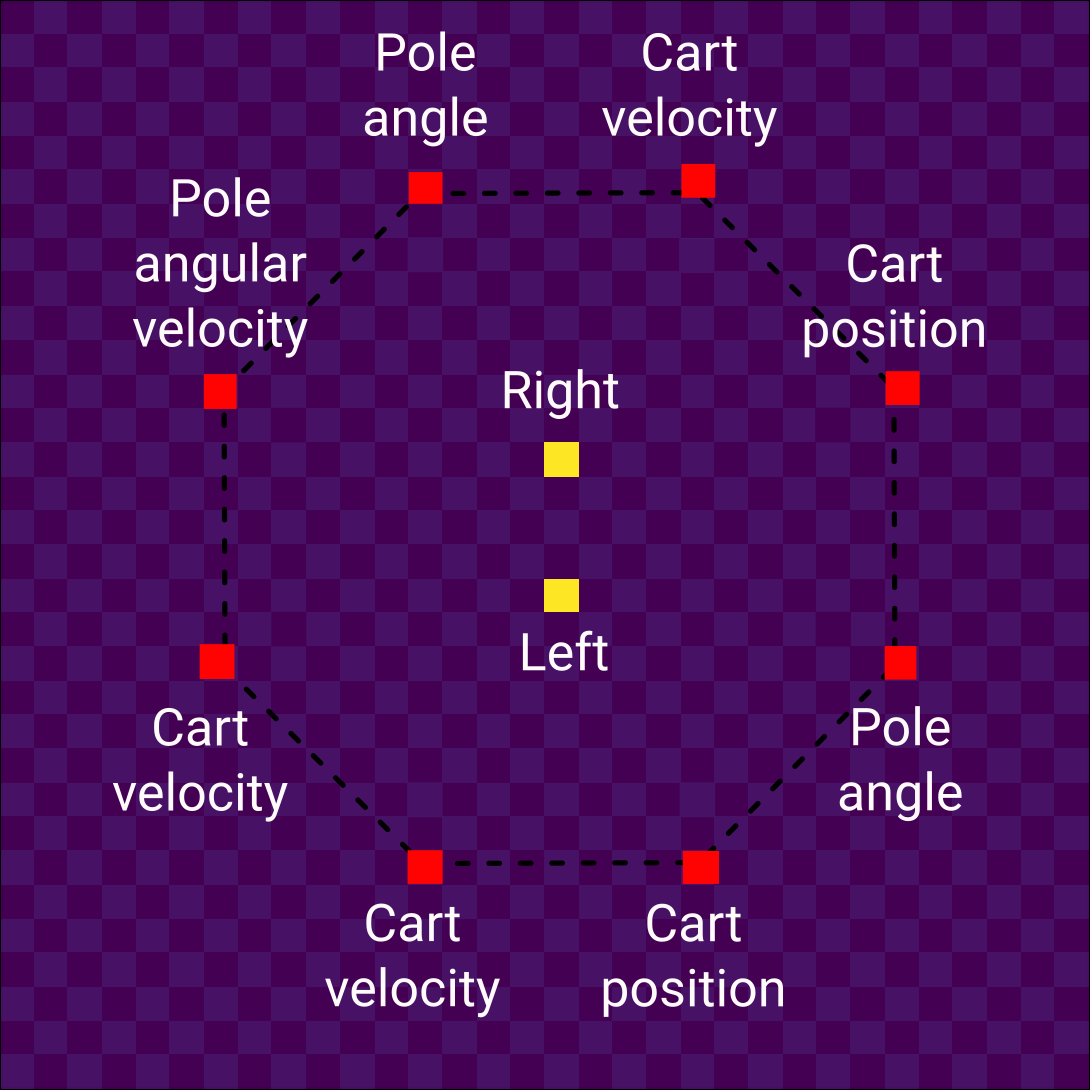
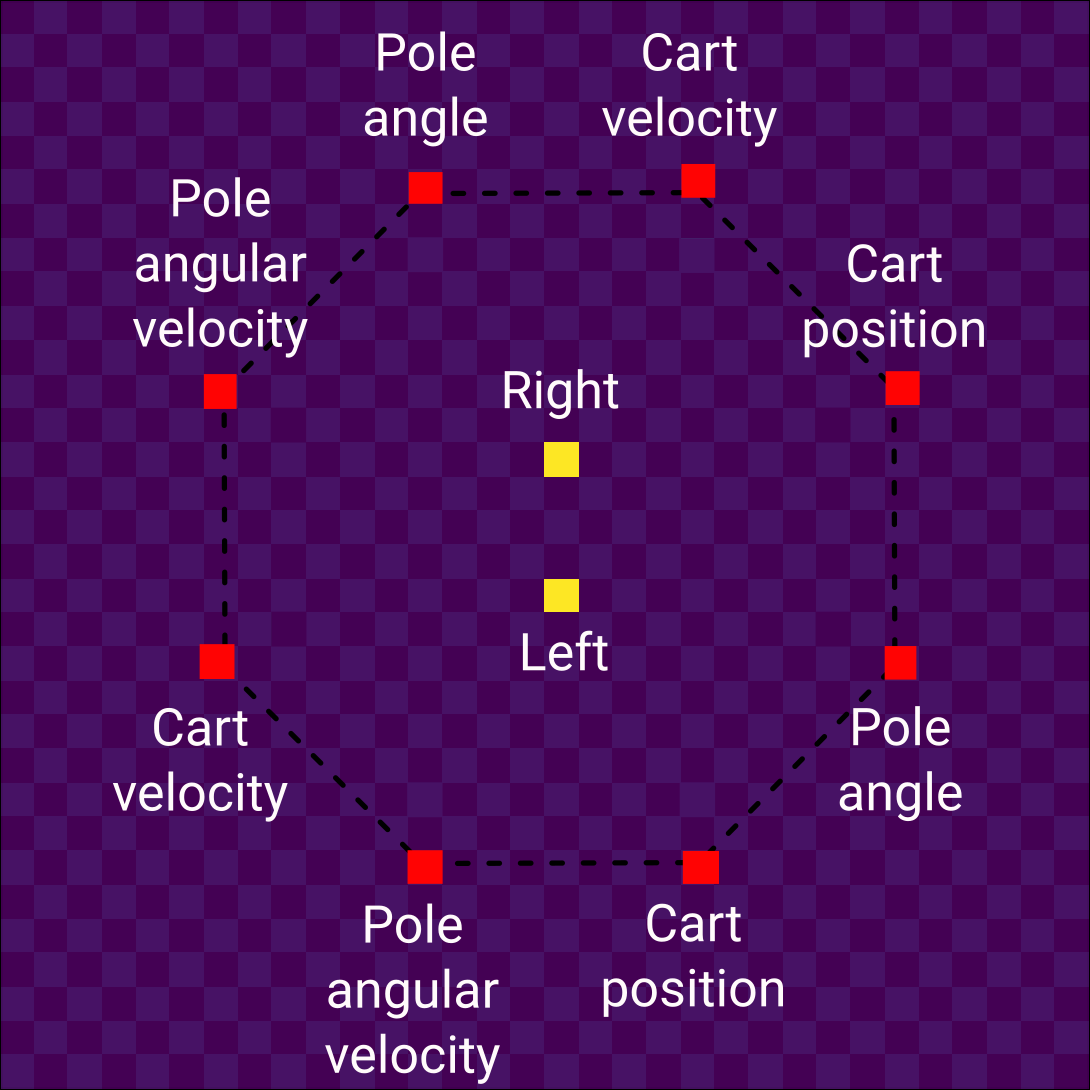
Corrected io position, added reward function

Changed region(s): [[0.2807, 0.811, 0.4679, 0.9982]]

diff --git a/index.html b/index.html
@@ -21,7 +21,7 @@
   <div class="column column-60 column-offset-20">
 
 
-	<h1> Towards self organized control </h1>
+	<h1> Towards self-organized control </h1>
 	<h3 class="nobold"> Using neural cellular automata to robustly control a cart-pole agent</h3>
 	<h4 class="nobold"> Alexandre Variengien <sup>1,2,3</sup>, Stefano Nichele<sup>1,2,*</sup>, Tom Glover<sup>1</sup>, Sidney Pontes-Filho<sup>1,4</sup></h4>
 	<small class="nobold"><sup><small>1</small></sup> Department of Computer Science, Oslo Metropolitan University, Oslo (Norway)  <br>
@@ -69,7 +69,7 @@
 		</p>
 		<p>
 			The neural plasticity can be considered as a part of the whole biological mechanism governing homeostasis of both 
-			shape and function. This conceptual proximity is also justified by biological evidence such as the recent discovery 
+			shape and function. This conceptual proximity is also justified by biological evidence such as the discovery 
 			of the role of electrical activity during morphogenesis. In particular, the same ion channels are used both for local 
 			communication between non-neuronal cells during embryogenesis and in the neurons to carry action potentials 			
 			<a class="ref" href="https://onlinelibrary.wiley.com/doi/epdf/10.1002/bem.10104" >[3]<span>Bioelectromagnetics in morphogenesis, Michael Levin</span></a>.
@@ -118,7 +118,7 @@
 			as a developmental problem. 
 		</p>
 		<p>
-			The developmental problem has also been addressed as an independent task. The goal here is to model the phenomena of morphogenesis observed in living organisms.
+			The developmental problem has also been addressed as an independent task. In this case, the goal is to model the phenomena of morphogenesis observed in living organisms.
 			Successful approaches used cellular automata along with artificial neural networks implementing local rules. They were able to produce complex
 			patterns from localized interactions. 
 					<a class="ref" href="https://core.ac.uk/download/pdf/147570059.pdf" >[18] 
@@ -154,11 +154,11 @@
 		</p>
 		
 	<h2> The pole balancing task </h2>
-		
+
 		<p>
 			The cart-pole problem is a commonly used toy problem in the reinforcement learning community. In this
 			environment, an agent controls a cart-pole system. It can observe the pole angle and angular velocity, 
-			the cart position, and its linear velocity.
+			the cart position, and its linear velocity. 
 			Based on these observations, it must decide whether to apply a force on the left or the right of the cart in order
 			to maximize the time spent with the pole up.
 			
@@ -170,8 +170,15 @@
 			</div>
 			<div class="caption">The cart-pole environment. The top arrow represents the angular velocity of the pole,
 								the bottom arrow, the velocity of the cart.
-				</div>
-			
+			</div>
+			We used the implementation of this environment provided by the <a href="https://gym.openai.com/">OpenAI gym library</a>.
+			We used a custom reward function to favor agents that stay on the center of the track.
+			<div>
+			<img src = "img/reward.png" width="150" class="center" >
+			</div>
+			<div class="caption">The reward given at time step t. x is the position of the cart, L the length of the pole. On the center (x=0), the
+								agent receives the maximum reward of 1, while if it is on the edges of the track (x= &pm; L), the agent receives 0, the minimum reward. 
+			</div>
 		</p>
 
 	<h2> Cell state </h2>
@@ -181,7 +188,7 @@
 		<p>
 			The state of each cell is composed of 6 channels. The first is the <i> information channel</i> where meaningful
 			input and output information transit. The third is identifying the inputs: it is equal to 1 in the input cells, 0 elsewhere.
-			The fourth is similar for the outputs. The remaining three are hidden channels.
+			The fourth similarly identifies the outputs. The remaining three are hidden channels.
 		</p>
 		<p>
 			The state of the input cell cannot be changed, the information channel transmit the observation from the environment
@@ -201,7 +208,7 @@
 
 		<h4> Input encoding </h4>
 			<p>
-				For this task, we use redundancy in the inputs: each of the 4 physical observations of the environment is linked to 2 input cells.
+				We use redundancy in the inputs: each of the 4 physical observations of the environment is linked to 2 input cells.
 				We thought it could improve the opportunity for information combination and robustness. 
 				Note that the type of information contained in the input is not directly provided. To know which observation 
 				each input cell encodes, the CA must rely on the spatial position of the inputs or on the value of the information channel.
@@ -212,8 +219,8 @@
 			</p>
 		<h4> Cell position </h4>
 		<p>
-			The 8 inputs are arranged in an octagonal shape (dotted line) on a 32x32 grid. The two output cells are offset by 2 cells from the center of the octagon.
-			We chose this configuration to ensure an almost equal distribution of the distance between each input and output. 
+			The 8 inputs are arranged in an octagonal shape (dotted line) on a 32x32 grid with zeros at the boundary. The two output cells are offset by 2 cells from the center of the octagon.
+			We chose this configuration to ensure an almost equal distribution of the distance between each input and output.
 			<div>
 			<img src = "img/io_position.png" width="300" class="center" >
 			</div>
@@ -256,11 +263,7 @@
 			To keep the CA values in the information channel in a range coherent with the other cells, we scale the outputs of the CA by a factor
 			of 100 to get the Q-value estimates.
 		</p>
-		<h4> Environment </h4>
-		<p>
-			We used the cart-pole environment provided by the <a href="https://gym.openai.com/">OpenAI gym library</a>.
-			<!-- comment on the custom reward function ? -->
-		</p>
+
 		<h4> Loss function </h4>
 			<p>
 			The loss function for the task is the L2 loss between the output and the target.
@@ -297,7 +300,7 @@
 								The Vanishing Gradient Problem During Learning Recurrent Neural Nets and Problem Solutions, Sepp Hochreiter</span></a>.
 			</p>
 			<p>
-				To solve this problem, we first optimize the neural CA for an easier task: 
+				To solve this problem, we first trained the neural CA on an easier task: 
 				both outputs were optimized to compute the mean of the inputs. 
 				We found that it was able to learn with a reasonably low error after several thousand training steps.
 			</p>
